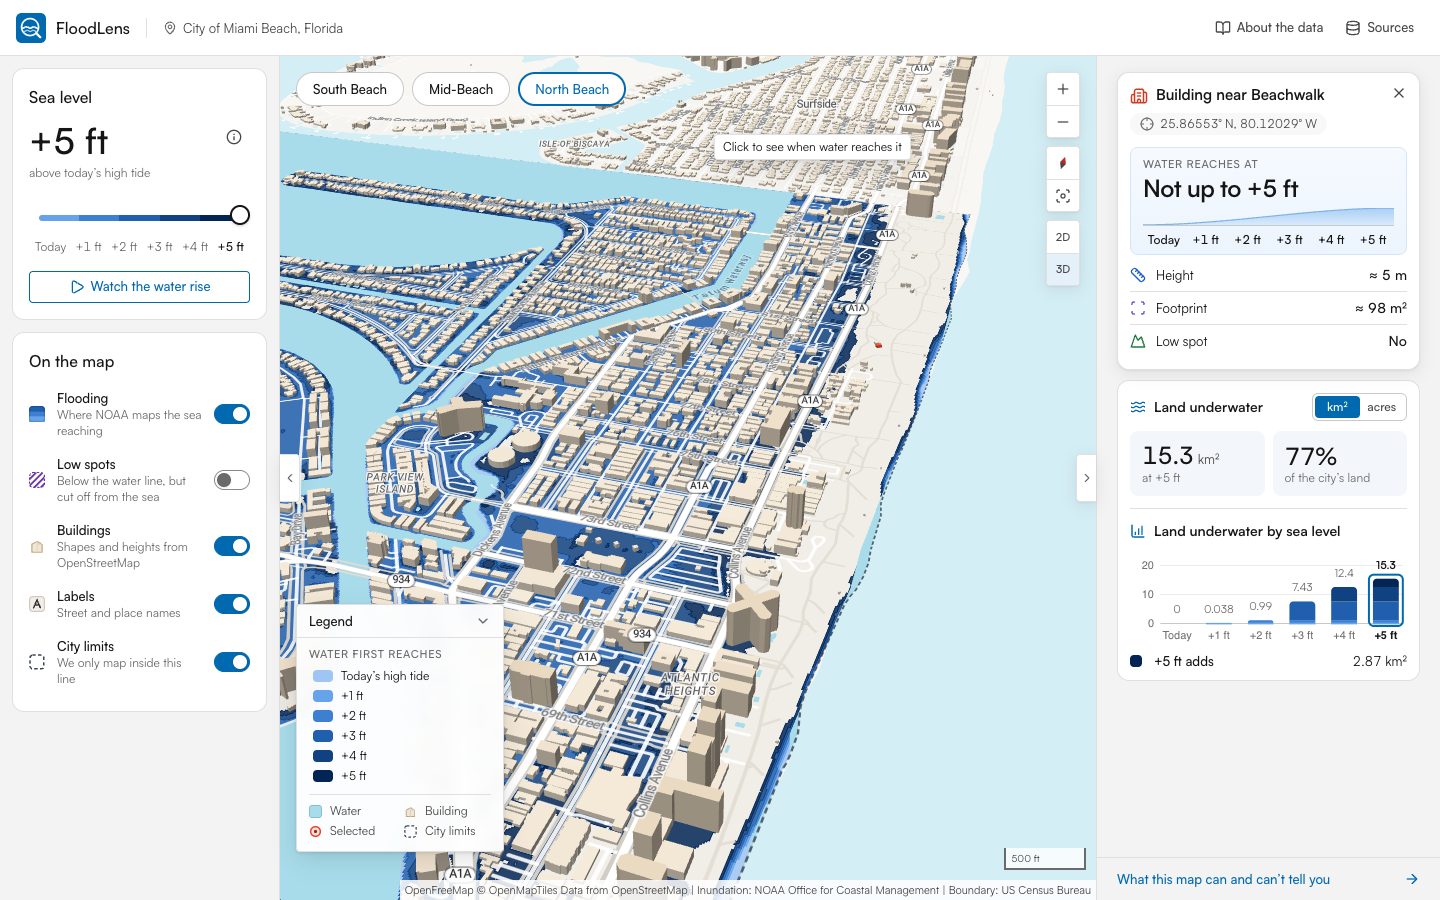
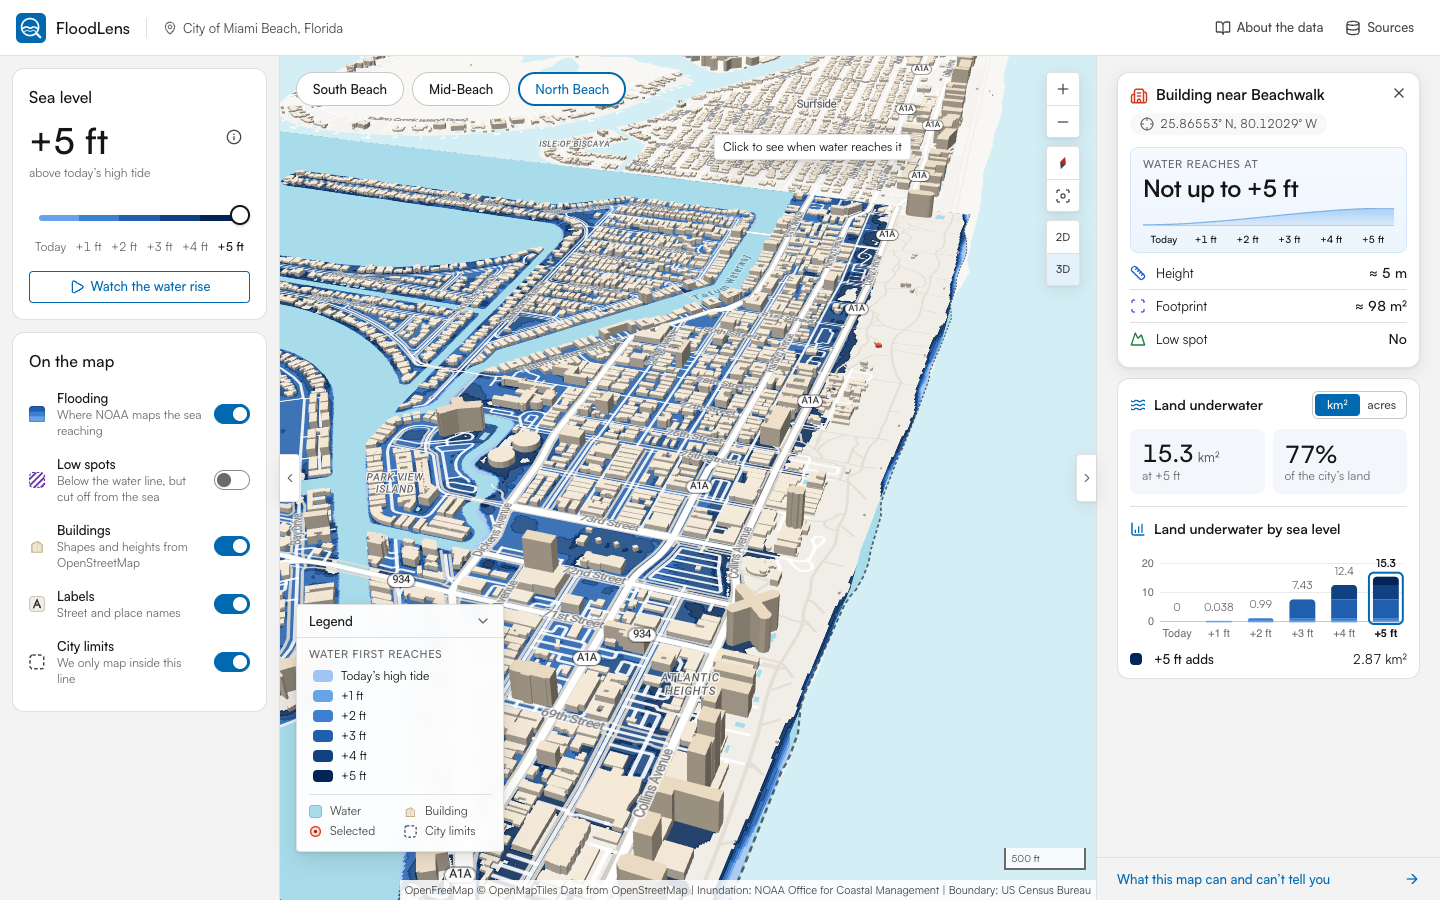
v0.23: smaller level labels in the card's track
- Track labels 12 px -> 10 px (14 px line); answer box 277x90
- Tests: 101 unit, 17 e2e

diff --git a/src/components/insights/LevelTrack.tsx b/src/components/insights/LevelTrack.tsx
@@ -82,7 +82,7 @@ export function LevelTrack({ levels, firstFeet, scenarioFt }: Props) {
         {levels.map((l, i) => {
           return (
             <li key={l.feet} className="flex flex-col">
-              <span className={`text-[12px] leading-4 tabular ${i === first ? 'font-semibold text-fg' : 'font-medium text-fg'}`}>
+              <span className={`text-[10px] leading-[14px] tabular ${i === first ? 'font-semibold text-fg' : 'font-medium text-fg'}`}>
                 {levelName(l.feet)}
                 {l.feet === scenarioFt && <span className="sr-only"> (selected level)</span>}
               </span>

diff --git a/docs/DESIGN_DECISIONS.md b/docs/DESIGN_DECISIONS.md
@@ -52,13 +52,13 @@ The voice, rules and a before/after table are in [UX_WRITING.md](UX_WRITING.md):
 
 The selected-place card leads with the answer, emphasised, in a light-blue block. The layout takes cues from a reference the designer supplied, but the wording stays FloodLens's own:
 - **Answer:** "WATER REACHES AT" on the left and **+3 ft** (24 px, black) on the right of the same row (v0.15), like the facts below it. The other answers are "Today" and "Not up to +5 ft"; the last is too wide for the row, so it wraps under the label. No number in the panel is blue: blue is kept for links and selection outlines.
-- **Box size:** the box is 277 × 92 px in the default 344 px pane (v0.16); it was 277 × 140 px in v0.14 and 277 × 104 px in v0.15. The rows from top to bottom: 8 px padding, the 32 px answer row, a 4 px gap, the 18 px water band, a 6 px gap, 16 px pin labels and 6 px padding. The 6 px above the pin labels can't shrink further: the larger blue pin would run into its label.
+- **Box size:** the box is 277 × 90 px in the default 344 px pane (v0.23; 92 px in v0.16–v0.22); it was 277 × 140 px in v0.14 and 277 × 104 px in v0.15. The rows from top to bottom: 8 px padding, the 32 px answer row, a 4 px gap, the 18 px water band, a 6 px gap, 16 px pin labels and 6 px padding. The 6 px above the pin labels can't shrink further: the larger blue pin would run into its label.
 - **Level track:** below the answer (see below).
 - **Facts:** Height, Footprint and Low spot follow in one column. Height and footprint always show, with "—" when the click isn't on a building (v0.13); before, those rows disappeared for open ground and water.
 - **Position:** a chip with the position. The distance to the street was dropped in v0.12: the title already names the street, and the distance says nothing about water.
 
 The **level track** works like this:
-- **Labels:** each sea level is labelled along a baseline, with no circles (v0.22). The first level that reaches the place has a bold label.
+- **Labels:** each sea level is labelled along a baseline in 10 px type, with no circles (v0.22–v0.23). The first level that reaches the place has a bold label.
 - **Water:** a light-blue band rises in a gentle S from the left and stops at the first level that reaches the place. A dashed line, topped by a small dot, drops from its surface to the baseline at that level. When no level reaches the place, the water runs to the end with no marker.
 - **Schematic:** the shape is not a depth, so it's hidden from screen readers; the pins are a list that says, for each level, whether water reaches the place.
 

diff --git a/CHANGELOG.md b/CHANGELOG.md
@@ -26,8 +26,16 @@ Every version is tagged in git (`git checkout v0.3`) and has a screenshot set in
 | v0.20 | 28 Oct 2026 | Vermilion selection, stat tiles, grey canvas, tiled left panel, rounded bars | [`docs/versions/v0.20/`](docs/versions/v0.20/) |
 | v0.21 | 28 Oct 2026 | Two-line sea-level (i) note | [`docs/versions/v0.21/`](docs/versions/v0.21/) |
 | v0.22 | 28 Oct 2026 | Clearer (i) note, level track without circles | [`docs/versions/v0.22/`](docs/versions/v0.22/) |
+| v0.23 | 28 Oct 2026 | Smaller level labels in the card's track | [`docs/versions/v0.23/`](docs/versions/v0.23/) |
 
 ---
+
+## v0.23: Smaller track labels (28 Oct 2026)
+
+- **The level labels under the card's water track** (Today, +1 ft … +5 ft) are 10 px instead of 12 px, with a 14 px line. The first level that reaches the place stays bold. The box is now 277 × 90 px.
+- The chart's own axis labels are unchanged at 11 px.
+- New screenshot `11-level-track-labels.png`.
+- Tests: 101 unit/component tests and 17 end-to-end tests.
 
 ## v0.22: Plainer note, cleaner track (28 Oct 2026)
 

diff --git a/docs/QUALITY_REPORT.md b/docs/QUALITY_REPORT.md
@@ -36,6 +36,7 @@ Status as of 27 Oct 2026 (v0.3). Every "passed" below was actually executed in t
 - Vermilion selection colour, the two figures on stat tiles, a grey canvas behind both panels, the left panel in tiles, and rounded bar tops (v0.20).
 - The sea-level (i) note cut to two lines, so the left panel no longer scrolls when it's open, even at 1440×800 (v0.21).
 - The note rewritten without "steps", and the circles removed from the card's level track (v0.22).
+- The level track's labels down to 10 px (v0.23).
 - The "See it at +N ft" link removed; the answer box shortened from 277 × 140 to 277 × 104 px, with the answer on the label's row and text sizes unchanged (v0.15).
 - The answer box shortened again, to 277 × 92 px (v0.16).
 - Legend, About the data dialog, Data sources dialog (provenance, steps, validation table, file list).
